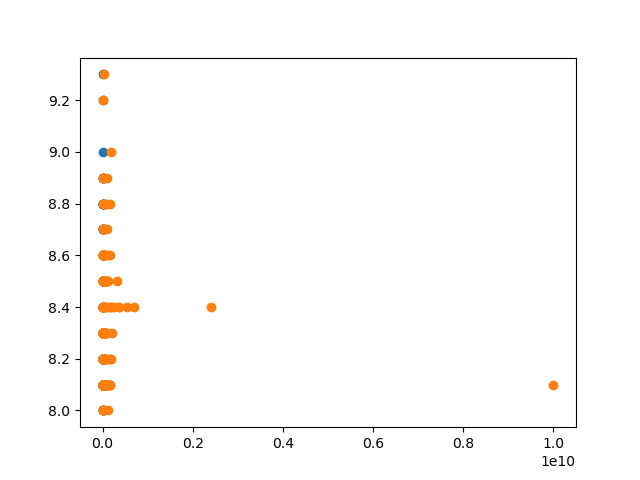
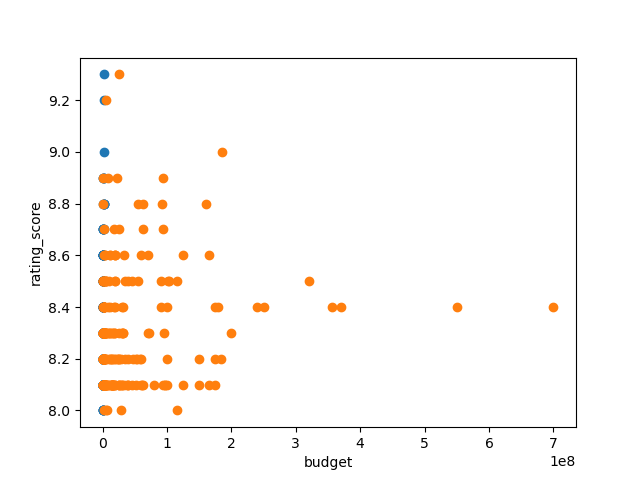
Edited Graphs

diff --git a/data_analysis.py b/data_analysis.py
@@ -8,11 +8,18 @@ df = pd.read_csv("./data/movies_file.csv")
 # Part 1
 # Relation between Total number of ratings & Rating score
 plt.scatter(df['total_number_of_ratings'], df['rating_score'])
+plt.xlabel('total_number_of_ratings')
+plt.ylabel('rating_score')
 plt.savefig('./data/total_number_of_ratings-rating_score.png')
 
 # Part 2
 # Relation between Budget & Rating score
+df.loc[df['budget'] == 10000000000, ['budget']] = 100000000
+df.loc[df['budget'] == 2400000000, ['budget']] = 240000000
+
 plt.scatter(df['budget'], df['rating_score'])
+plt.xlabel('budget')
+plt.ylabel('rating_score')
 plt.savefig('./data/budget-rating_score.png')
 
 # Part 3
